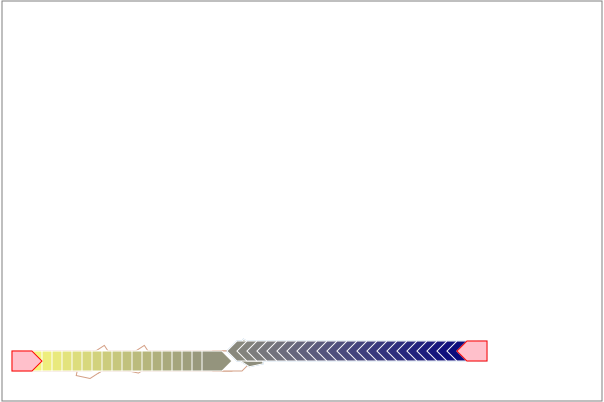
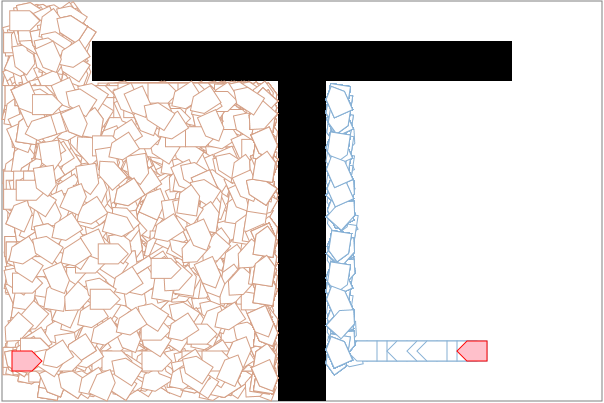
treeB is too dedicated

Changed region(s): [[0.0, 0.0, 1.0, 1.0], [0.7748, 0.8955, 0.8046, 0.9254]]

diff --git a/hw3/assignment_robots/src/assignment_robots/Bi_RRT.java b/hw3/assignment_robots/src/assignment_robots/Bi_RRT.java
@@ -15,7 +15,7 @@ public class Bi_RRT extends InformedSearchProblem {
 			connectedB = new HashSet<>(); // world sampling
 	HashMap<CarRobot, HashSet<AdjacentCfg>> RRTreeA = new HashMap<>(),
 			RRTreeB = new HashMap<>(); // RRTree,
-	CarRobot bridgeAside, bridgeBside;
+	CarRobot bridgeAside = null, bridgeBside = null;
 	World map;
 	int num4grow;
 
@@ -188,6 +188,8 @@ public class Bi_RRT extends InformedSearchProblem {
 		public ArrayList<SearchNode> getSuccessors() {
 			HashMap<CarRobot, HashSet<AdjacentCfg>> RRTree = tree ? RRTreeA : RRTreeB;
 			ArrayList<SearchNode> successors = new ArrayList<SearchNode>();
+			// no brdige, no way
+			if(bridgeAside == null) return successors;
 			for (AdjacentCfg adj : RRTree.get(car)) {
 				if(tree && bridgeAside.getDistance(adj.ar) < 20) {
 					System.out.println("going to B");

diff --git a/hw3/assignment_robots/src/assignment_robots/BiCarDrive.java b/hw3/assignment_robots/src/assignment_robots/BiCarDrive.java
@@ -176,8 +176,8 @@ public class BiCarDrive extends Application {
 		// Declaring a world; 
 		World w = new World(winw, winh);
 		// Add obstacles to the world;
-//		w.addObstacle(obstacle1);
-//		w.addObstacle(obstacle2);
+		w.addObstacle(obstacle1);
+		w.addObstacle(obstacle2);
 //		w.addObstacle(obstacle3);
 		w.addWall(bgc);
 //		w.addObstacle(obstacle4);
